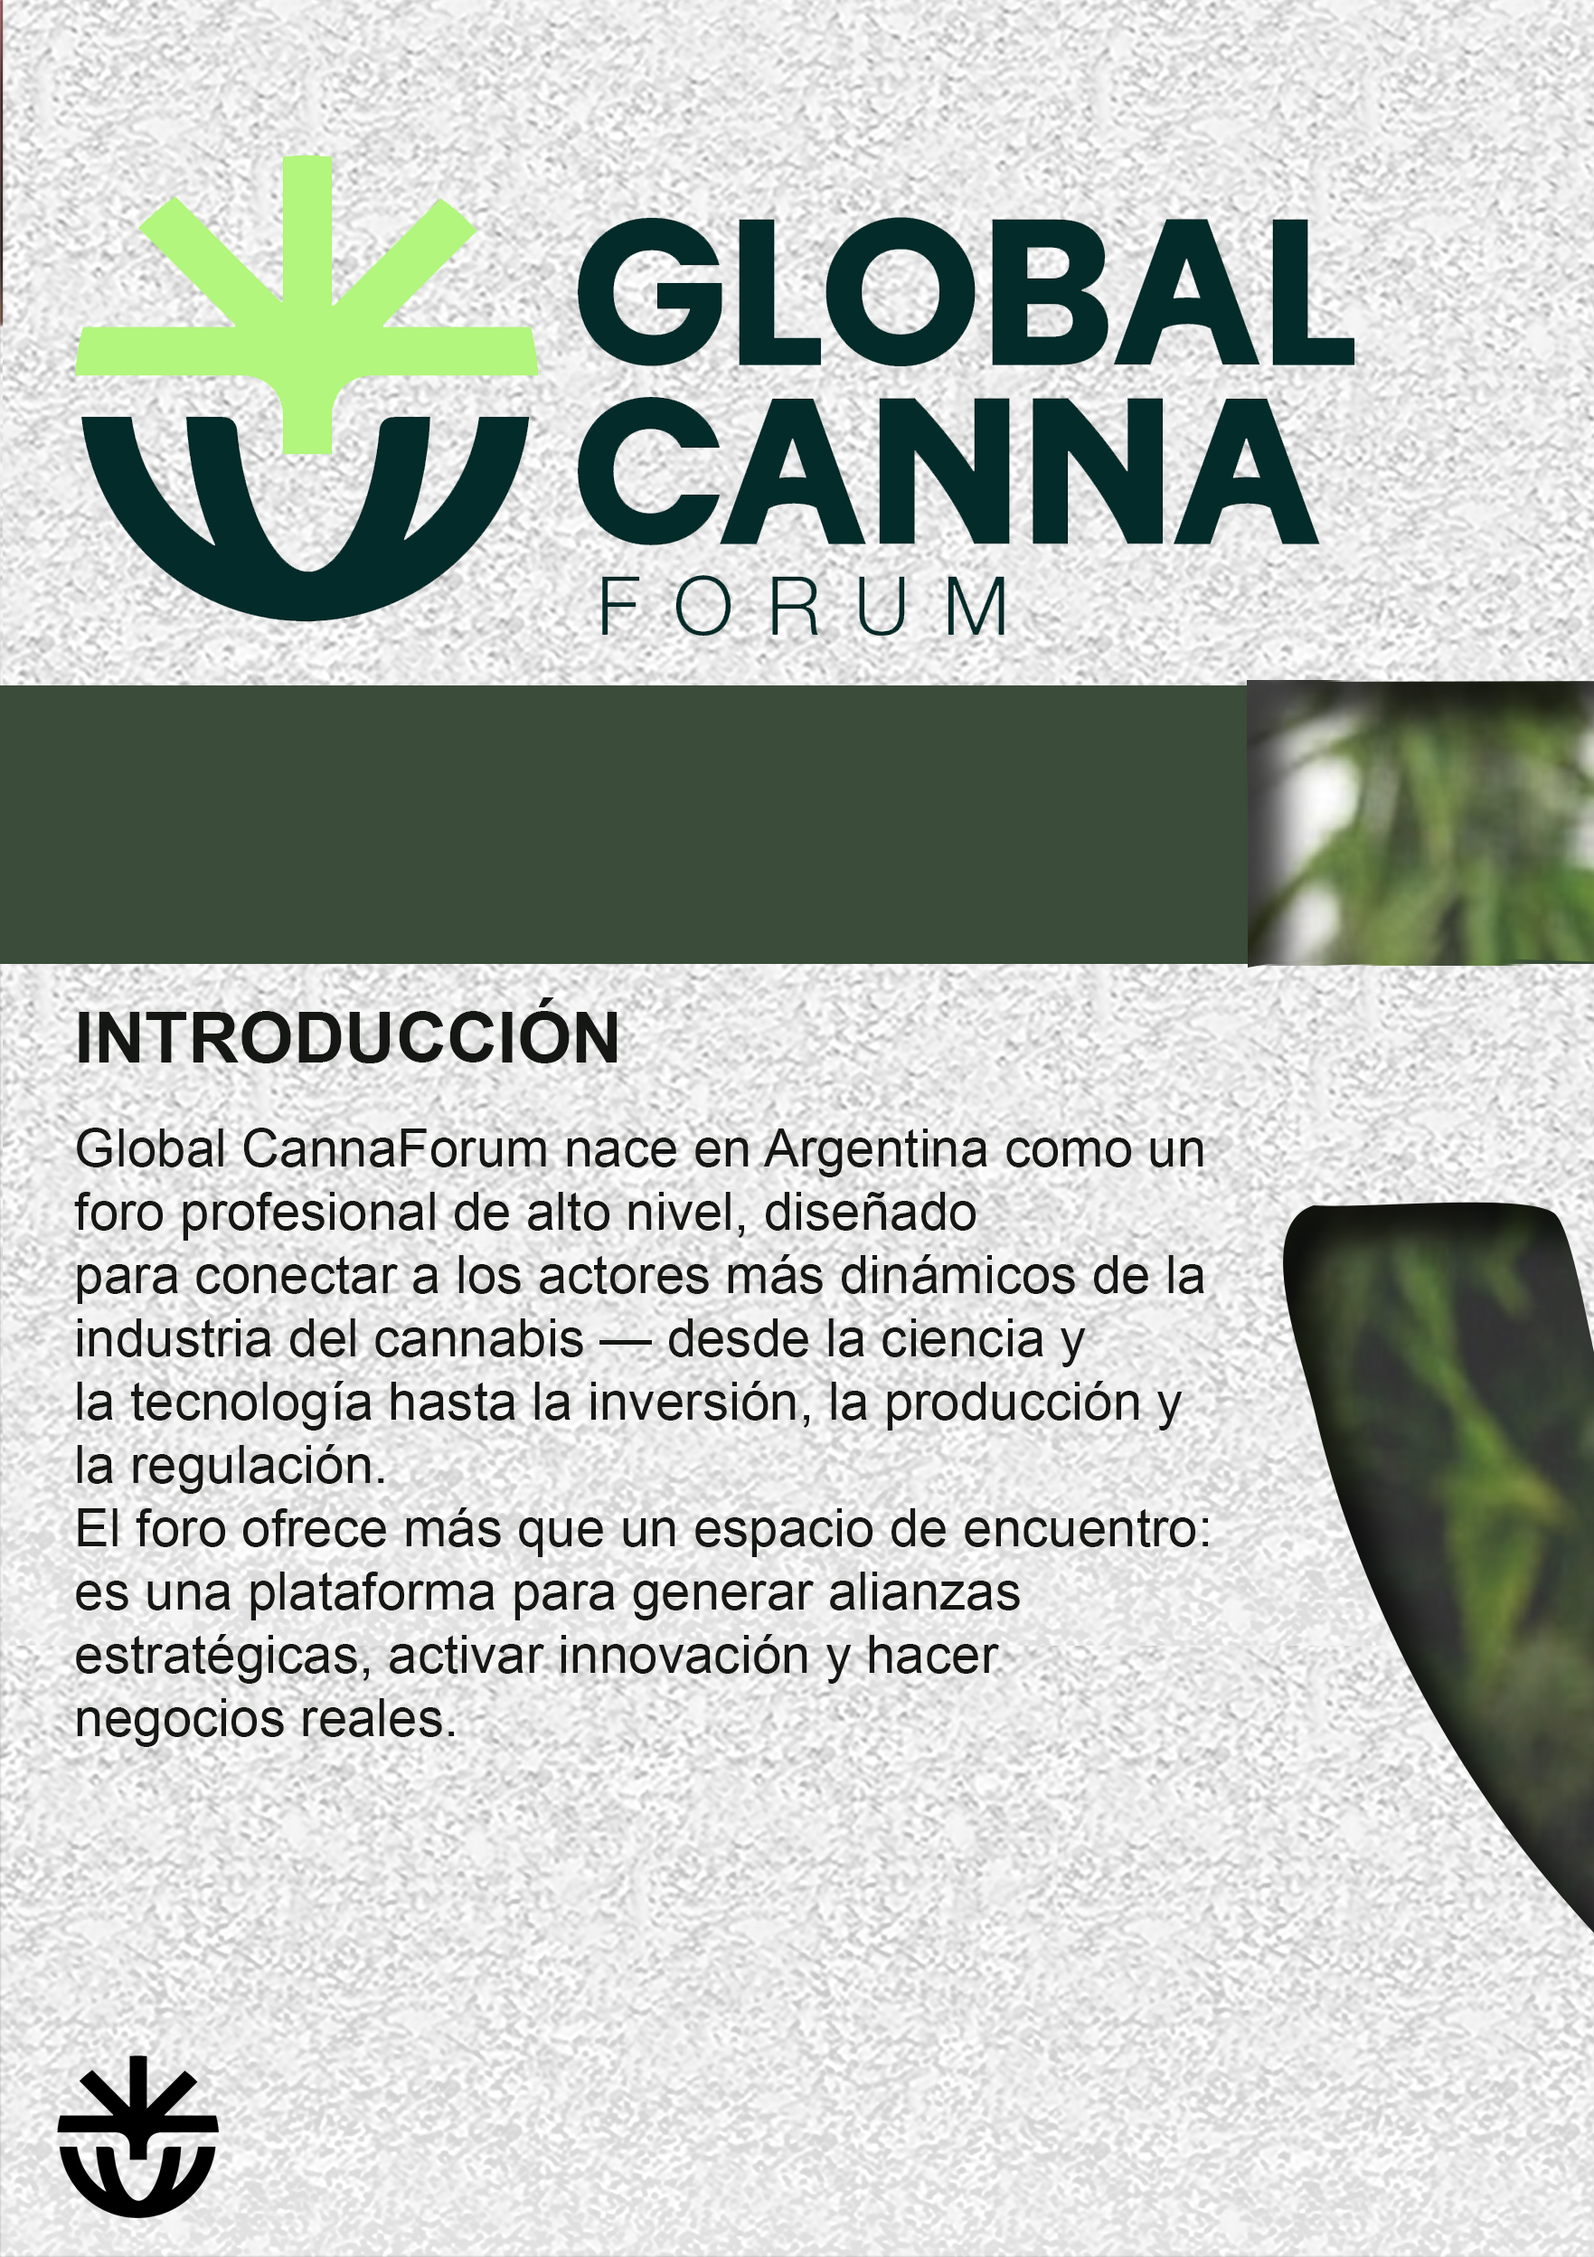
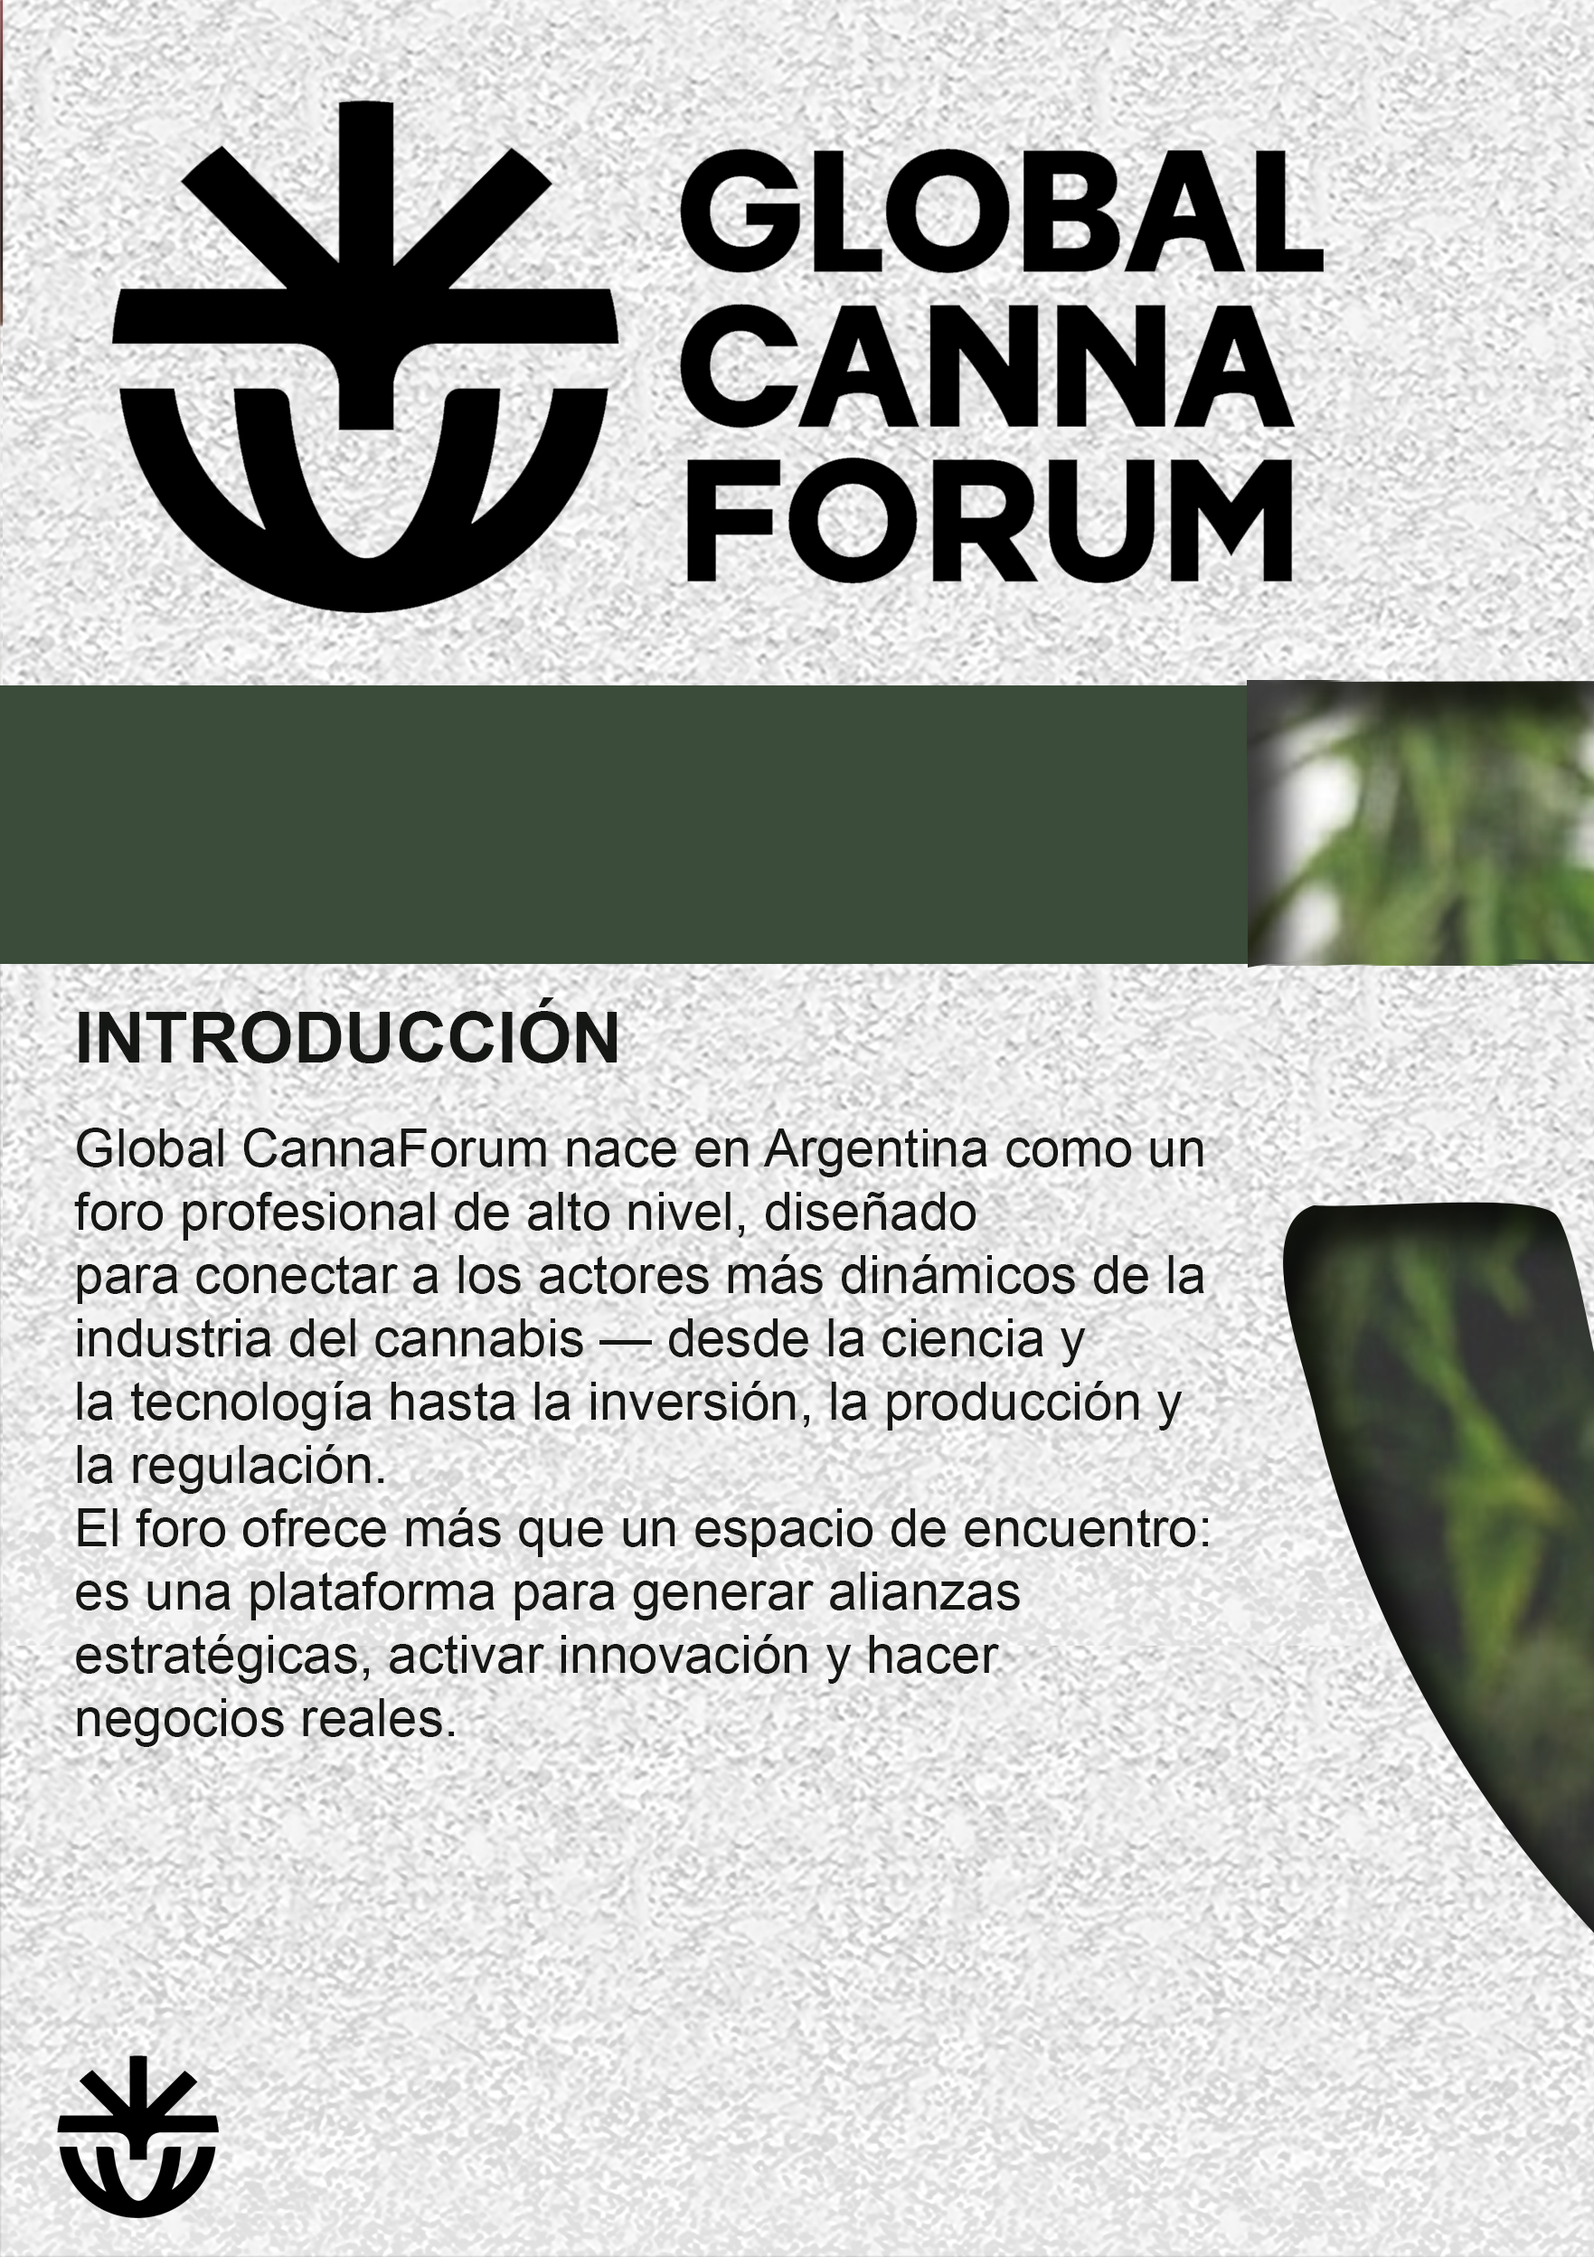
update

Changed region(s): [[0.0312, 0.0312, 0.8423, 0.2812]]

diff --git a/index.html b/index.html
@@ -29,7 +29,7 @@
 <body>
 	<div id="canvas">
 		
-		
+
 		<div class="zoom-icon zoom-icon-in"></div>
 		
 <div class="magazine-viewport" >
@@ -183,12 +183,13 @@
 
 
  <div class="loading-page">
-<svg id="svg" xmlns="http://www.w3.org/2000/svg" width="1592" height="634" viewBox="0 0 1592 634">
+<svg id="svg" xmlns="http://www.w3.org/2000/svg" width="1668" height="697" viewBox="0 0 1668 697">
   <defs>
 
   </defs>
-  <path id="Rectángulo_redondeado_1" data-name="Rectángulo redondeado 1" class="cls-1" d="M590,286H436c-25.067,0-53.423-2.508-68,8-20.53,14.8-18.214,47.211-18,83H291c0.253-33.026,2.8-67.076-16-81-16.159-11.971-44.331-10-73-10H49c-0.435-23,4.8-41.571,9-60H234v-1c-9.9-6.534-17.669-17.669-26-26l-55-55c-6.813-6.813-28.1-23.935-31-32,9.174-5.965,15.264-16.466,24-23,6.327-4.732,15.224-8.78,20-15h1v1L291,198V28c19.213-.139,41.236-2.457,59,1V201h1c7.5-11.37,20.425-20.425,30-30l62-62c7.043-7.043,24.662-30.049,34-32,5.277,6.781,15.089,11.792,22,17,7.771,5.856,12.742,15.512,21,21v1h-1L410,226H581v2C587.888,237.931,589.934,269.334,590,286Zm175-79H727V177c5.971-1.98,16.357-1,24-1h52c2.43,7.205,1.081,20.021,1,29-3.491,5.8-2.413,14.92-5,21-8.6,20.211-26.86,36.312-48,44-9.337,3.4-25.356,5.4-36,3-7.526-1.7-13.482.115-20-2-27.864-9.04-44.835-25.96-55-53-3.543-9.425-8.6-28.916-5-44,9.811-41.111,28.984-63.295,70-73h13c30.162-6.239,55.9,12.7,69,28,3.091,3.611,15.648,22.447,13,27-5.34,3.382-36.045,1.111-45,1-7.9-13.835-30.974-23.911-52-15-16.564,7.02-31.756,31.676-25,58,4.117,16.04,12.76,28.174,27,34C731.108,244.681,761.89,229.208,765,207Zm235-107c49.69-.7,73.48,16.871,90,49,5.52,10.741,12.41,32.81,8,52-1.66,7.219-3.14,15.412-6,22-12.07,27.795-35.12,43.645-68,51-15.07,3.371-33.507-1.4-43-5-32.725-12.417-57-37.113-57-82,0-12.92,1.043-23.542,5-33,8.844-21.137,25.909-39.155,47-48C982.96,103.081,993.59,104.061,1000,100Zm-177,2h41c3.717,11.274,1,30.711,1,44v94h54v33H823V102Zm295,0c37.62-.6,92.25-5.9,115,10,28.16,19.678,18.57,61.1-10,73v1c28.82,3.493,41.82,52.617,19,72-24.18,20.537-79.34,15.4-124,15V102Zm202,0h49q30.495,84.992,61,170h-44c-2.88-6.984-11.41-39.387-16-42-8.35-7.9-46.63-6.094-53,2-5.27,7.164-7.86,20.547-11,29l-3,11h-44v-2c3.42-4.658,3.77-11.13,6-17,4.73-12.465,8.61-25.861,14-39,9.11-22.179,15.56-46.019,25-69C1309.51,131.583,1316.3,116.651,1320,102Zm124,0h42V240h54v33h-96V102Zm-285,34v35c15.34,0.456,40.94,3.1,45-8,6-5.954,2.69-20.536-4-23C1193.09,133.46,1172.06,135.837,1159,136Zm-155,2c-4.492,2.854-11.552,2.256-16,5-9.32,5.749-16.58,16.385-20,28-10.115,34.356,15.96,73.418,51,65,26.25-6.307,47-35.78,34-70C1045.86,147.194,1030.94,137.5,1004,138Zm355,56c-0.65-6.274-11.96-40.287-15-44v1c-7.13,9.594-10.09,31.169-15,43h7C1340.98,190.728,1353.35,193.619,1359,194Zm-200,8v37c19.95,0.571,49.34,4.049,51-14,3.36-4.9-.85-12.094-2-16C1193.98,200.057,1181.62,201.88,1159,202ZM801,369H755c-8.111-17.654-36.532-30.035-58-16-15.9,10.4-26.276,41.747-16,66,7.147,16.867,34.654,35.389,59,21a47.584,47.584,0,0,0,13-12c0.97-1.391.565-4.213,2-5h46c-5.036,42.5-65.888,74.805-115,54-28.909-12.247-43.03-34.328-51-68-2.309-9.755.2-25.018,2-32,9.22-35.826,26.317-56.17,61-66C746.964,297.122,796.331,331.776,801,369Zm296-58h41V481h-42c-1.78-8.175-6.58-14.5-10-21a550.276,550.276,0,0,0-41-67c-4.89-6.8-11.94-12.387-16-20h-1V481H986V311c9.146-.1,37.65-2.056,42,0,6.85,4.628,12.03,12.418,17,19,10.62,14.059,24.58,26.511,35,41,5.31,7.388,9.62,18.78,17,24V311Zm178,0h42V481h-42c-11.18-28.507-27.36-54.325-44-78-6.97-9.923-16.33-18.757-23-29h-1v2c-3.39,5.448-1,21.331-1,29v76h-41V311c13.53,0.109,30.17,1.319,42-1,3.26,9.267,15.33,15.49,21,23,10.71,14.183,21.53,27.4,32,42,4.48,6.247,11.36,12.094,14,20h1V311ZM971,481H927v-1h-1l-13-41c-7.15-7.353-46.071-5.682-54,0-5.685,4.074-10.3,38.667-15,42H800v-2c7.715-10.329,8.84-26.447,14-39,10.864-26.429,20.16-55.562,31-82,4.983-12.154,8.334-24.647,13-36l3-11h49c3.833,17.106,12.465,35.254,19,51,10.742,25.881,16.345,52.081,27,78C961.1,452.4,968.761,466.95,971,481Zm468-170c0.84,7.956,5.31,15.534,8,22,4.65,11.18,7.68,22.6,12,33,15.78,38.03,25.44,77.413,41,115h-45c-1.46-7.489-10.58-38.279-15-42-10.01-8.15-43.79-6.608-53,1-4.08,5.286-12.81,32.857-14,41h-44c1.6-14.839,11.65-33.966,17-47,11.34-27.607,19.01-56.209,30-83,3.9-9.512,6.66-19.077,10-28,1.16-3.1,1.44-10.541,4-12h49ZM57,332h59c2.856,62.827,53.908,125.372,96,150v-2c-7.922-8.83-9.882-24.616-14-37-10.595-31.865-18.645-69.445-19-111,19.7-.44,52.9-4.771,58,10,5.857,8.211,3.9,34.438,7,46,11.265,42.068,21.558,82.36,48,109,9.467,9.538,28.128,22,46,11,31.55-19.421,45.854-64.263,57-104q4-22.5,8-45c2.417-10.546-.425-18.994,7-24,10.091-6.8,38.51-3.157,54-3,0.158,31.006-5.466,63.02-13,88-2.781,9.222-2.727,17.15-6,26-3.351,9.06-9.272,18.887-11,29h1c8.081-10.631,22.851-16.234,31-27,6.408-8.465,14.173-16.252,20-25,17.241-25.885,26.542-54.707,34-91h59c-0.01,33.271-13.513,62.261-24,86-31.415,71.111-88.73,118.676-166,144-30.689,10.058-91.427,13.761-126,4-86.114-24.313-141.372-68.542-179-141C71.016,400,57.445,368.356,57,332Zm814,71c9.567-.17,19.618-0.411,29,0-0.685-6.559-11.835-41.128-15-45C883.163,374.089,873.505,386.991,871,403Zm542-44q-7.005,22-14,44h7c4.98-3.272,17.35-.381,23,0v-2C1422.03,391.469,1421.13,365.929,1413,359ZM773,517c20.486-.574,32.246,4.343,38,18,8.9,21.128-1.8,46.373-18,52-28.369,9.851-50.962-19.2-43-46C754.939,524.375,761.5,525.579,773,517Zm-109,1h43v6H670v24h33v6H671c-2.777,8.258-1.082,22.9-1,33h-6V518Zm198,0c17.02-.466,44.608-3.52,49,9,5.457,5.656,1.777,14.818,0,21-3.078,1.943-4.811,3.871-9,5v1c12.207,1.872,11.713,20.941,13,33h-7v-2c-4.794-7.756.5-21.882-8-26-5.4-4.8-21.094-3.161-31-3v30a21.509,21.509,0,0,1-7,1V518Zm101,0h7c-0.183,11.767-2.7,47.4,2,54,1.585,5.075,4.8,5.793,8,9,38.45,3.338,29.69-27.008,29-63h7c0.73,32.655,6.65,61.626-20,69-2.579.714-9.895,2.135-14,1-3.093-.855-6.5-3.041-10-4-1.858-2.8-5.525-5.117-7-8C959.771,565.781,962.936,532.842,963,518Zm103,0h11c2.49,19.453,16.14,38.624,21,58h1v-1c5.37-6.379,13.33-31.152,17-40,1.68-4.041,2.54-15.047,6-17h10v69h-7V546c0-4.848.98-12.869-1-16-1.48,13.049-12.02,31.308-17,43-2.93,6.869-1.01,13.812-11,14-7.89-17.871-16.74-37.769-22-57h-1v57h-6C1062.58,573.7,1065.93,535.007,1066,518Zm-291,5c-8.329,6.229-14.631,8.66-18,20-5.566,18.732,8.635,45.047,30,39C815.567,573.915,815.523,521.724,775,523Zm94,1v26c13.225,0.426,32.563,2.853,36-7,3.376-4.11,1.208-9.367,0-14C896.556,523.66,883.741,523.871,869,524Z"/>
+  <path id="Rectángulo_redondeado_1" data-name="Rectángulo redondeado 1" d="M403,2V219h2L560,62h1v1c15.077,8.766,27.975,21.976,40,34,4.225,4.224,10.843,7.891,13,14-10.65,7.04-24.206,22.683-32,33l-21,20-46,47c-7.934,7.934-34.739,29.946-38,39H691v2c6.413,9.306,10.861,53.248,11,70H509c-36.643,0-70.886-2.118-89,16-20.363,20.368-16.227,58.622-16,99H331c0.3-41.966,3.871-84.282-20-102-20.491-15.209-55.576-13-92-13H30l5-45c2.191-8.6,5.405-17.185,6-27H262v-2c-12.1-8-21.8-21.8-32-32l-69-69c-8.838-8.838-17.178-18.144-26-27-4.241-4.257-10.794-7.877-13-14,8.806-5.778,14.6-16.658,23-23,9.692-7.316,21.691-14.211,30-23,5.463,1.97,8.254,7.255,12,11l30,30,77,77c11.78,11.78,23.071,27.738,37,37V2l40-2C380.239,1.959,392.772,1.977,403,2ZM940,117H897c-3.8-12.377-25.171-21.454-43-16-17.419,5.329-36.9,27.429-30,56,5.8,24.029,30.13,47.506,62,34,11.07-4.691,17.126-14.9,22-26H872V136h71c0.688,42.675-8.589,65.282-34,81-6.254,3.869-14.629,6.909-22,9-50.363,14.287-89.677-21.193-100-55-2.031-6.652-2.773-19.783-2-25,1.367-9.223-.37-16.263,2-24,7.977-26.037,25.183-44.883,50-54C882.271,51.37,935.371,79.768,940,117Zm188-53c11.69-.168,23.71-0.819,33,2,40.12,12.172,77.57,59.506,54,114-11.16,25.808-32.71,41.032-63,48-13.13,3.021-30.6-.937-39-4-26.58-9.692-44.31-25.747-53-53-1.92-6.035-.49-11.009-2-18-2.54-11.767.1-28.458,4-38,7.56-18.512,22.87-36.158,41-44C1110.2,67.886,1121.17,68.316,1128,64ZM962,66h38V196c13.3,4.434,36.54,1.086,52,1v30H962V66Zm278,0c39.51-.686,94.17-5.95,114,14,20.3,20.423,7.8,57.862-17,64v1c32.57,4.129,40.28,53.831,15,72-21.99,15.805-75.17,10.5-112,10V66Zm134,160c1.27-11.464,8.01-23.278,12-33,10.65-25.928,17.68-52.864,28-78,4.99-12.149,8.34-24.647,13-36,1.76-4.295,1.38-8.771,4-12,5.34-3.382,36.04-1.111,45-1q28.995,79.992,58,160h-41v-1h-1c-0.66-6.852-10.7-37.276-15-39-7.58-5.811-43.69-5.5-50,1q-6.495,19.5-13,39h-40ZM1548,66h39V197h51v30h-90V66ZM1279,97v34c10.02,0.217,29.67,2.566,36-2,8.33-2.459,9.42-9.758,9-21-2.93-3.152-3.32-6.37-8-8C1309.25,94.736,1290.49,96.86,1279,97Zm-147,2c-3.06,1.953-7.38,1.446-11,3-10.88,4.675-19.46,16.035-23,28-9.78,33.1,14.95,71.568,49,63,20.76-5.223,40.44-24.942,34-53-1.98-8.607-1.19-14.627-5-21C1167.78,105.256,1154.8,98.554,1132,99Zm307,54c10.53-.045,18.86-0.164,29,0-1.73-15.393-10.34-28.355-14-43a2.909,2.909,0,0,0-1,1C1449.18,116.072,1440.14,145.263,1439,153Zm-160,7v36c17.49,0.49,42.58,2.9,47-10,5.46-6.385.68-19.913-5-22C1315.04,157.042,1291.47,159.81,1279,160ZM940,326H898c-21.913-45.479-92.681-11.313-72,45,5.948,16.195,28.354,36.218,54,25,4.73-2.069,12.1-7.895,15-12,1.3-1.845.991-5.01,3-6h42c-4.487,38.823-56.728,67.384-103,52-20.954-6.967-34.429-21.38-44-40-3.906-7.6-11.155-27.5-9-40,6.832-39.629,16.464-61.516,49-75C878.642,256.084,937.122,286.539,940,326Zm176-55h39c4.25,6.527,11.43,10.956,16,17,15.73,20.811,35.86,40.171,48,64h1V271h39V432h-39c-13.14-29.461-29.37-54.515-47-79-5.19-7.215-10.79-20.182-19-24V432h-38V271Zm168,0h39c3.14,4.84,8.64,7.556,12,12,9.44,12.469,20.81,23.49,30,36,6.53,8.887,15.4,27.19,24,33V271h38V432h-39c-6.06-24.888-29.46-54.805-43-74-6.6-9.358-12.65-22.544-22-29V432h-39V271ZM941,432c1.6-14.465,11.708-34.122,17-47,10.245-24.933,17.08-50.829,27-75,2.168-5.282,10.9-36.512,13-38h45q28.995,79.992,58,160h-41v-1h-1c-0.66-6.852-10.7-37.276-15-39-7.58-5.812-43.69-5.5-50,1l-13,39H941Zm658,0h-41c-0.63-6.518-11.18-38.393-15-40-10.8-8.651-39.57-3.371-50,1q-6.495,19.5-13,39h-41v-1c8.24-11.109,9.47-28.605,15-42,10.21-24.747,18.79-52.238,29-77,3.92-9.512,6.65-19.194,10-28,1.25-3.3,1.22-10.439,4-12h45c4.07,18.083,13.09,37.345,20,54,8.56,20.643,12.49,41.311,21,62C1588.43,401.215,1596.79,416.918,1599,432Zm-593-73c10.53-.045,18.86-0.164,29,0-1.72-15.318-10.39-28.6-14-43h-1v1C1016.18,322.072,1007.14,351.263,1006,359Zm512-43c-1.38,12.682-9.16,31.568-14,43h11c4.37-2.878,13.21-.223,19,0v-2c-4.46-5.949-11.92-32.387-14-41h-2ZM40,382h73c0.195,13.428,4.474,26.41,8,37,17.393,52.237,34.453,81.465,69,116,10.3,10.3,28.987,29.84,44,34v-1c-9.291-10.779-11.674-29.632-17-44-14.722-39.713-24.563-90-25-142,22.6-.437,65.12-5.912,71,11,5.88,8.225,5.664,45.039,9,58,10.145,39.42,18.985,78.257,38,109,5.122,8.282,12.334,15.473,18,23,12.085,16.054,36.9,33.506,62,18,39.761-24.565,57.809-85.119,72-136q4.5-27.5,9-55c2.378-10.632-.034-18.668,7-24,9.834-7.455,49.44-4.19,67-4,0.353,19.586-1.968,41.264-6,58-6.668,27.681-7.651,52.861-16,78-4.732,14.248-12.369,28.535-16,43h2c5.093-7.363,20.453-17.3,28-23,16.72-12.623,36.6-43.261,48-62,11.59-19.051,19.12-42.959,26-66,2.409-8.067.629-20.269,5-27,3.846-2.41,14.282-1,20-1h52c0.514,38.962-19.143,87.487-33,114-37.049,70.889-89.137,125.272-164,158-15.571,6.807-30.67,9.463-48,15-43.468,13.888-117.72,14.447-162,0-79.665-25.992-139.571-67.2-183-129-8.684-12.357-13.945-25.7-22-39C57.221,469.988,43.281,427.047,40,382Zm961,92c44.16-.629,69.64,12.427,86,39,3.84,6.242,6.86,14.758,9,22,16.08,54.492-27.32,94.454-65,104-7.94,2.011-21.45,1.727-29,0-38.568-8.822-56.383-19.289-69-54-5.311-14.611-7.415-40.041-1-56,8.622-21.45,24.889-40.14,46-49C984.778,477.155,994.753,477.951,1001,474Zm-207,2H917v34H832c-2.69,7.994-1.082,22.18-1,32h75v34H831v61H794V476Zm326,0c37.79-.548,89.66-5.3,113,10,16.32,10.7,27.72,41.644,17,67-5.49,13-16.27,21.125-29,27,9.57,19.7,27.7,37.056,38,58h-44c-6.48-13.56-17.48-24.432-26-36-2.94-3.99-6.52-12.993-11-15h-21v50h-37V476Zm153,0h37c-0.44,35.24-6.44,103.987,11,121,5.26,5.133,17.12,11.239,30,8,8.01-2.016,16.23-6.671,20-13,5.85-9.821,5-25.386,5-41V476h37v65c0,48.464-3.77,77.3-37,92-9.3,4.115-26.37,10.456-42,7-23.83-5.271-40.09-11.3-51-29C1266.87,584.836,1272.71,517.934,1273,476Zm162,0h37c1.76,5.371,6.09,7.1,9,11,7.3,9.793,15.01,19.314,22,29,3.8,5.274,6.96,14.156,13,17v-1c4.93-4.851,7.89-11.288,12-17,6.35-8.827,14.55-17.309,21-26,2.03-2.734,6.59-11.488,9-13h37V637h-37V541h-1v1c-4.69,4.564-7.15,10.518-11,16-9.64,13.726-24.98,28.6-30,46h-1v-1c-5.14-5.252-6.97-12.516-11-19-6.42-10.314-14.98-20.244-22-30-3.34-4.647-5.65-11.477-11-14v97h-36V476Zm-428,32c-3.89,2.462-9.676,2.024-14,4-10.251,4.685-19.963,16.141-24,27-12.017,32.323,15.455,71.705,46,67,20.37-3.137,34.13-12.592,41-29C1071.9,539.015,1042.35,507.431,1007,508Zm150,2v43c20.31,0.491,50.81,4.045,56-11,5.66-5.891,1.82-16.628,0-23C1196.32,508.079,1184.24,509.907,1157,510Z"/>
 </svg>
+
 </div> 
 
 
@@ -215,7 +216,7 @@ function loadApp() {
 		setTimeout(loadApp, 10);
 		return;
 	}
-	
+
 	// Create the flipbook
 
 	flipbook.turn({

diff --git a/css/magazine.css b/css/magazine.css
@@ -1138,7 +1138,7 @@ body{
     fill-opacity: 0;
     stroke-width: 8px !important;
     stroke-dasharray: 4500;
-    animation: draw 11s ease;
+    animation: draw 8s ease;
 	
 }
 
